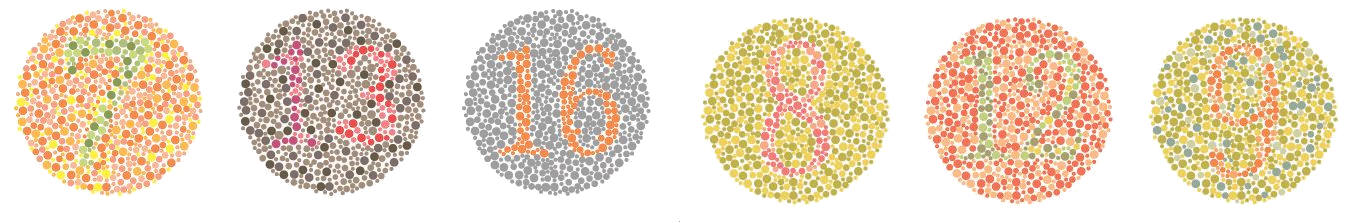
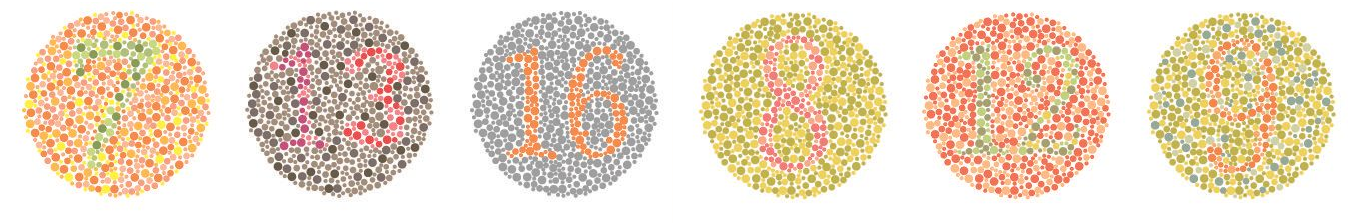
modif

diff --git a/css/style.css b/css/style.css
@@ -6,9 +6,10 @@ html body {
 .header {
     background-color: #F1F1F1;
     text-align: center;
-    padding: 20px;
-    background-image: url(/image/Test_Ishihara.jpg);
-    background-size: 100% 100%;
+    padding: 90px;
+    background-image: url(/image/testIshihara.png);
+    background-size: auto;
+    background-position: center;
 }
 
 .topnavBar {

diff --git a/index.html b/index.html
@@ -11,7 +11,7 @@
 
 <body>
     <div class="header">
-        <h1>Header</h1>
+        <h1></h1>
     </div>
 
     <ul class="topnavBar">
